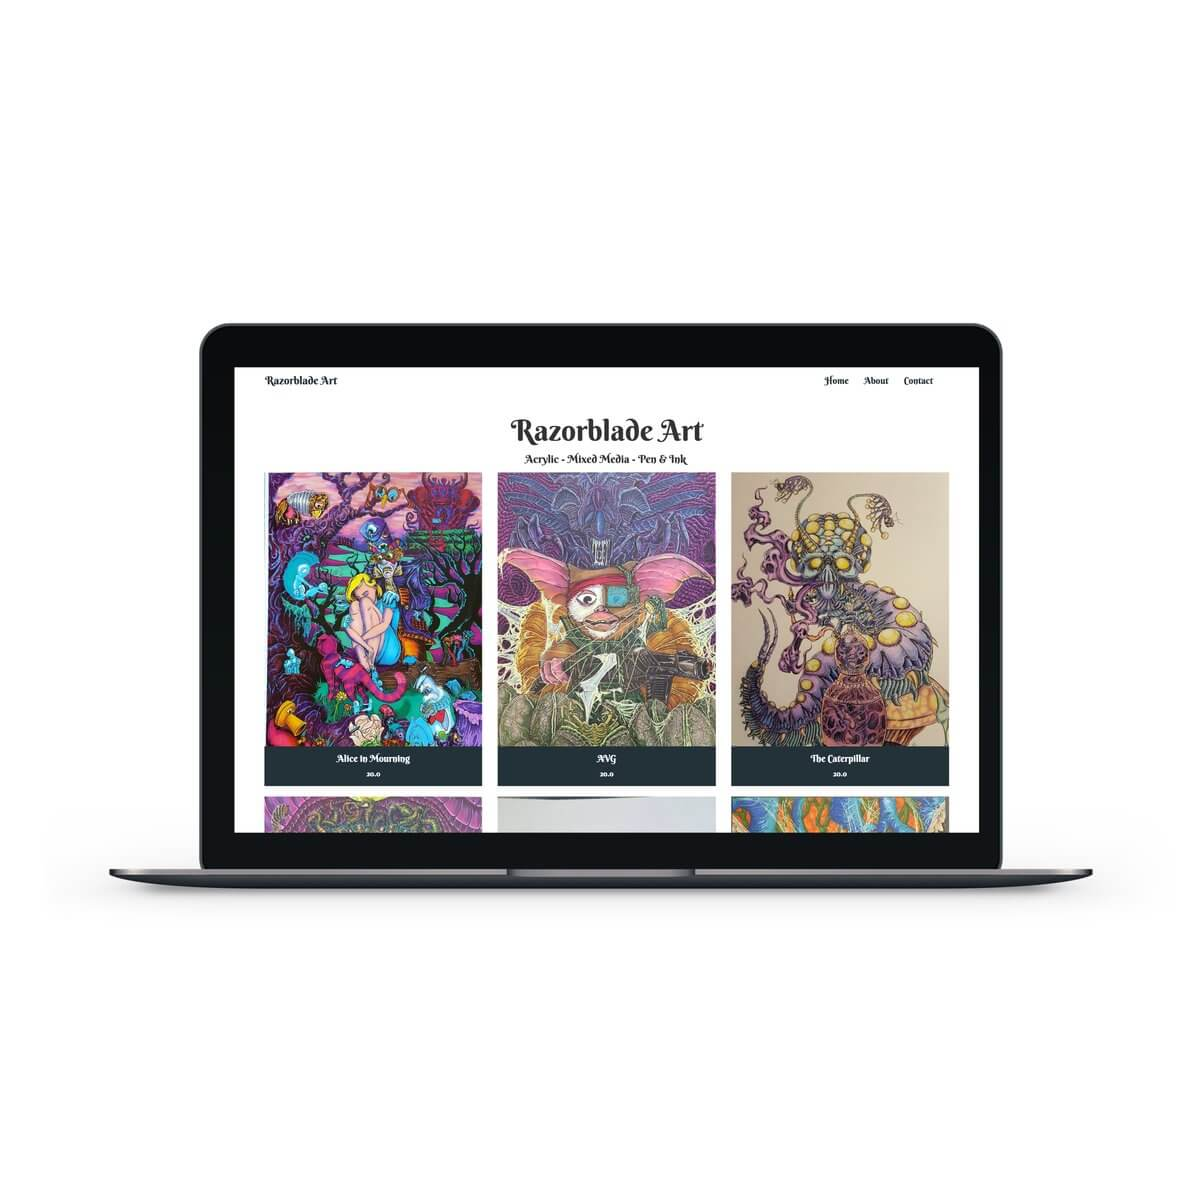
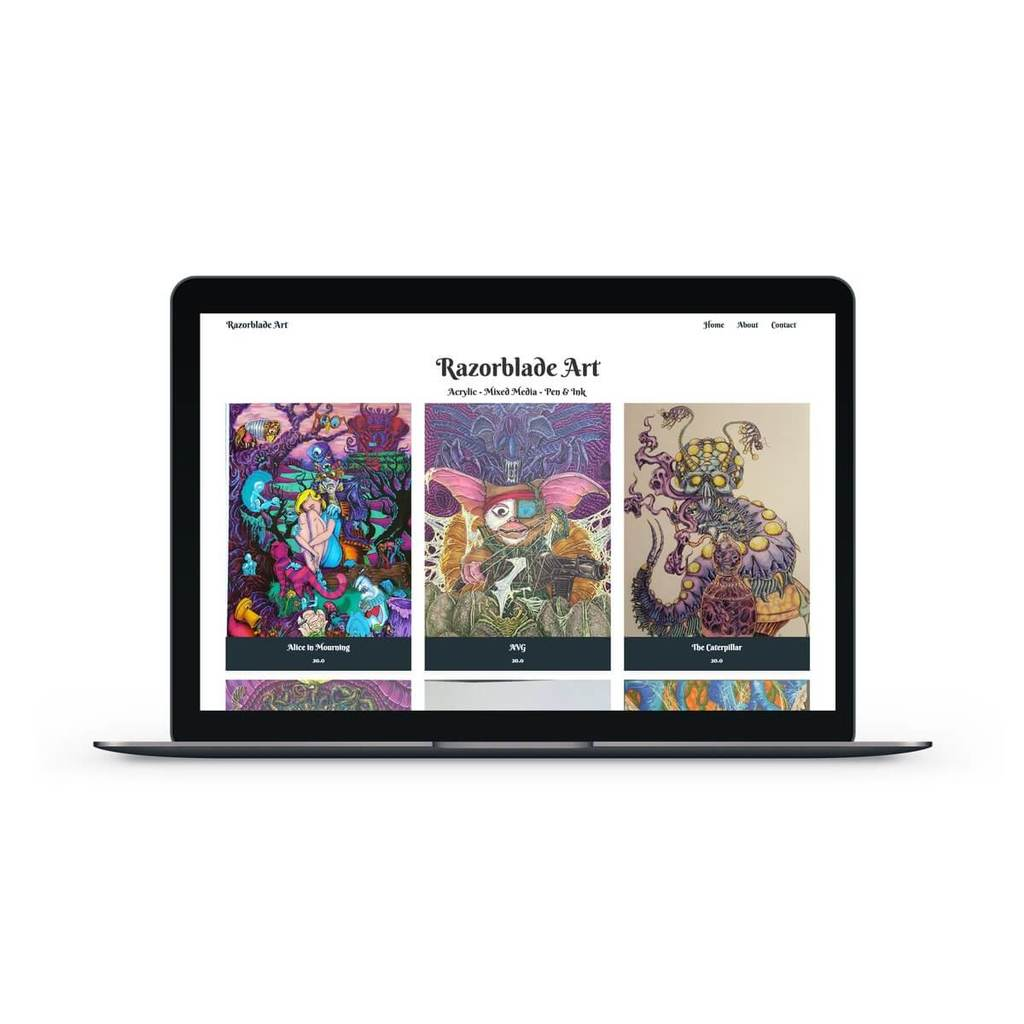
optimize images

Changed region(s): [[0.25, 0.4688, 0.3438, 0.5312], [0.2812, 0.5625, 0.3125, 0.5938]]

diff --git a/src/components/portfolio/WorkLeft.vue b/src/components/portfolio/WorkLeft.vue
@@ -219,7 +219,7 @@ export default {
     height: 77vh;
     display: flex;
     flex-direction: column;
-    justify-content: space-around;
+    justify-content: space-evenly;
   }
 
   @include bp-tablet-p {
@@ -238,7 +238,7 @@ export default {
     height: 77vh;
     display: flex;
     flex-direction: column;
-    justify-content: space-between;
+    justify-content: space-evenly;
   }
 
   @include bp-tablet-p {
@@ -276,29 +276,38 @@ export default {
     background-color: var(--white);
   }
   &__img {
-    height: 85%;
-    width: 85%;
+    height: 50vmin;
+    width: 50vmin;
     background-color: var(--white);
     @include unslant;
     grid-area: img;
+    @include bp-phone {
+      height: 40vmin;
+      width: 40vmin;
+    }
+
+    @include bp-tablet-p {
+      height: 30vmin;
+      width: 30vmin;
+    }
     &-box {
       @include center;
       &--outer {
         @include center;
-        height: 90vh;
-        width: 90vh;
+        height: 90vmin;
+        width: 90vmin;
         margin: 3rem;
         background-color: var(--black);
         box-shadow: 1px 1px 8px 0px rgba(50, 50, 50, 0.73);
         transition: all 0.3s cubic-bezier(0.25, 0.8, 0.25, 1);
         @include bp-phone {
-          height: 45vh;
-          width: 45vh;
           margin-bottom: 0;
+          height: 70vmin;
+          width: 70vmin;
         }
         @include bp-tablet-p {
-          height: 55vh;
-          width: 55vh;
+          height: 55vmin;
+          width: 55vmin;
         }
         &:hover {
           box-shadow: 0 14px 28px rgba(0, 0, 0, 0.25),
@@ -317,6 +326,9 @@ export default {
         width: 90%;
         border: 2rem solid var(--primary);
         background-color: var(--white);
+        @include bp-phone {
+          border-width: 1rem;
+        }
       }
     }
   }

diff --git a/src/components/portfolio/WorkRight.vue b/src/components/portfolio/WorkRight.vue
@@ -282,31 +282,39 @@ export default {
     background-color: var(--white);
   }
   &__img {
-    height: 85%;
-    width: 85%;
+    height: 90%;
+    width: 90%;
     background-color: var(--white);
     @include unslant;
     transition: 1s all;
     grid-area: img;
+    @include bp-phone {
+      height: 40vmin;
+      width: 40vmin;
+    }
+
+    @include bp-tablet-p {
+      height: 30vmin;
+      width: 30vmin;
+    }
     &-box {
       @include center;
       &--outer {
         @include center;
-        height: 90vh;
-        width: 90vh;
+        height: 90vmin;
+        width: 90vmin;
         margin: 3rem;
         background-color: var(--black);
         box-shadow: 1px 1px 8px 0px rgba(50, 50, 50, 0.73);
         transition: all 0.3s cubic-bezier(0.25, 0.8, 0.25, 1);
         @include bp-phone {
-          height: 45vh;
-          width: 45vh;
-          margin-bottom: 0;
+          margin-top: 3rem;
+          height: 70vmin;
+          width: 70vmin;
         }
-
         @include bp-tablet-p {
-          height: 55vh;
-          width: 55vh;
+          height: 55vmin;
+          width: 55vmin;
         }
         &:hover {
           box-shadow: 0 14px 28px rgba(0, 0, 0, 0.25),
@@ -326,6 +334,9 @@ export default {
         border: 2rem solid var(--primary);
         background-color: var(--white);
         transition: 1s all;
+        @include bp-phone {
+          border-width: 1rem;
+        }
       }
     }
   }
